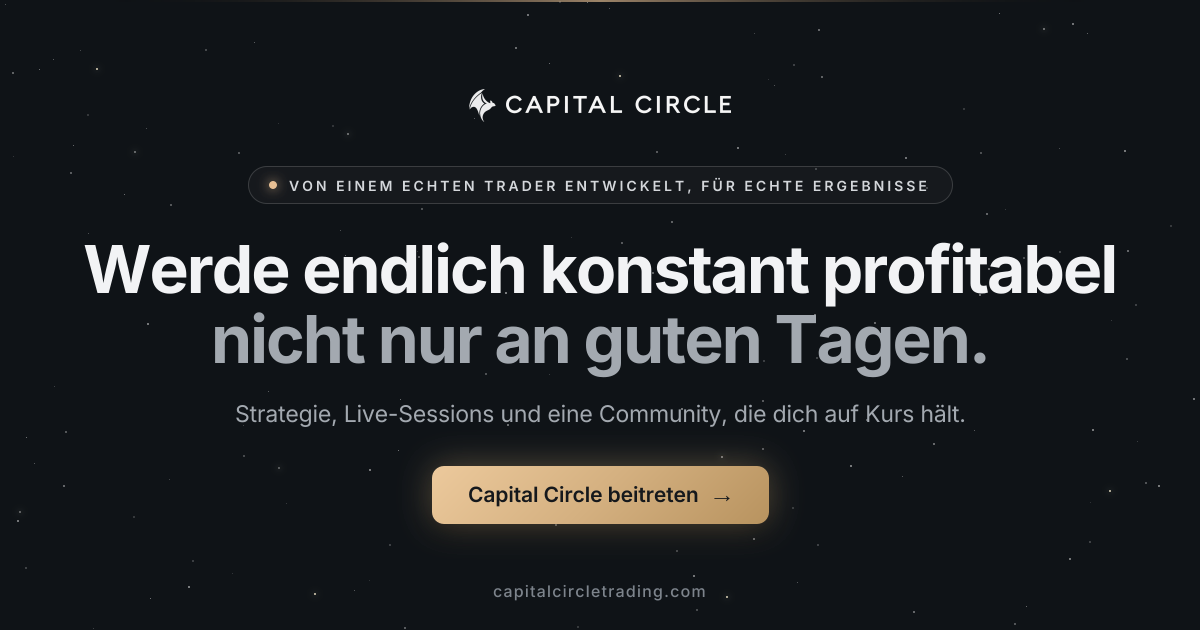
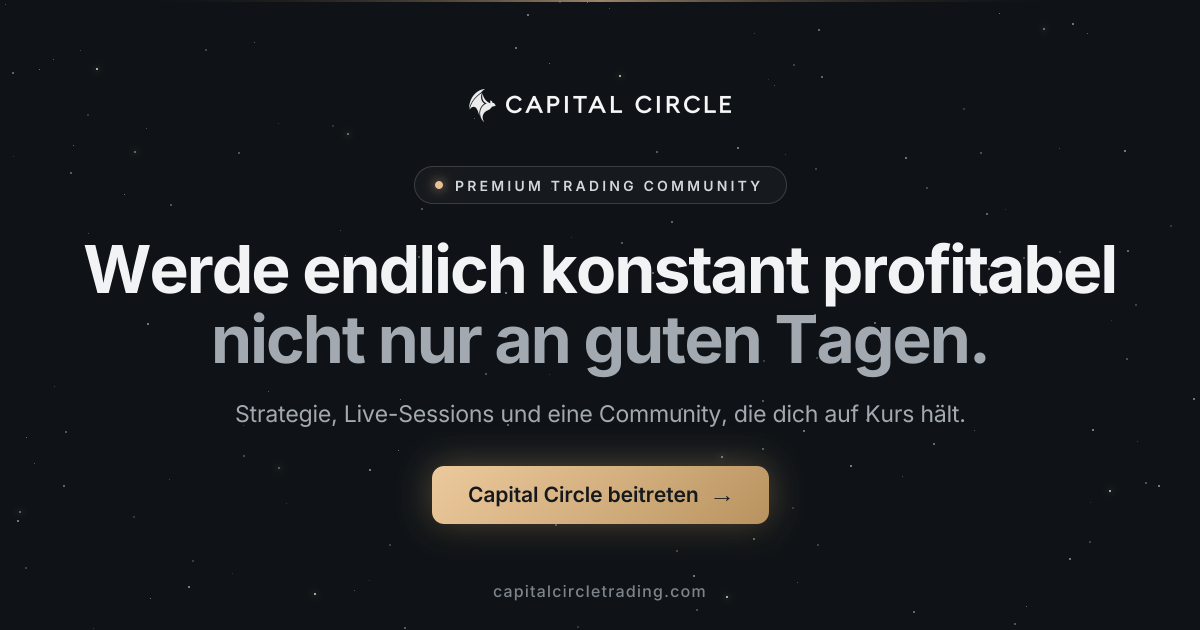
fix(landing): Satz als kleines Badge ueber dem Video statt als Dachzeile
"Von einem echten Trader entwickelt, fuer echte Ergebnisse" steht jetzt als
kleines Badge direkt ueber dem Hero-Video (hero.videoBadge): normale
Schreibweise, 10/12 px, kein Pulsieren. Die Dachzeile ueber der Headline ist
wieder "Premium Trading Community", ebenso im Vorschaubild - sie zu ersetzen
war ein Missverstaendnis.

Changed region(s): [[0.2158, 0.2714, 0.7708, 0.3016]]

diff --git a/components/landing/membership/MembershipHero.tsx b/components/landing/membership/MembershipHero.tsx
@@ -1,6 +1,6 @@
 "use client";
 
-import { Box, Heading, HStack, Stack, Text } from "@chakra-ui/react";
+import { Box, Flex, Heading, HStack, Stack, Text } from "@chakra-ui/react";
 import { hero } from "@/config/landing-membership";
 import { heroRise } from "../landing-ui";
 import { BeitrittCta } from "./BeitrittModal";
@@ -40,17 +40,12 @@ export function MembershipHero({ bewertungen }: { bewertungen: Bewertungsspiegel
             etwas läuft, statt es nur zu behaupten. Der Punkt bleibt Gold hell:
             ein zweiter Akzentton käme sonst über die Türschwelle der Seite.
           */}
-          {/* Seit 29.09.2026 ein ganzer Satz statt „Premium Trading Community":
-              Auf dem Handy passt er nicht in eine Zeile, die Pill bricht dort
-              deshalb um und rundet sich zur Kapsel statt zum Kreis. */}
           <HStack
             {...heroRise(0)}
             spacing={{ base: 2.5, md: 3 }}
-            minH={{ base: "32px", md: "36px" }}
-            py={{ base: 2, md: 0 }}
+            h={{ base: "32px", md: "36px" }}
             px={{ base: 4, md: 5 }}
-            maxW="100%"
-            borderRadius={{ base: "18px", md: "full" }}
+            borderRadius="full"
             border="1px solid var(--cc-line-strong)"
             bg="rgba(255, 255, 255, 0.02)"
           >
@@ -67,12 +62,11 @@ export function MembershipHero({ bewertungen }: { bewertungen: Bewertungsspiegel
             <Text
               as="span"
               fontSize={{ base: "11px", md: "13px" }}
-              lineHeight={{ base: "16px", md: "normal" }}
               fontWeight={600}
-              letterSpacing={{ base: "0.16em", md: "0.22em" }}
+              letterSpacing="0.22em"
               textTransform="uppercase"
               color="var(--cc-text-soft)"
-              whiteSpace={{ base: "normal", md: "nowrap" }}
+              whiteSpace="nowrap"
             >
               {hero.eyebrow}
             </Text>
@@ -117,6 +111,42 @@ export function MembershipHero({ bewertungen }: { bewertungen: Bewertungsspiegel
           Vorschau nach unten abtauchte, hätte die untere Kante verschluckt.
         */}
         <Box {...heroRise(4)} position="relative">
+          {/*
+            Kleines Badge direkt über dem Video (Nutzerwunsch 29.09.2026) —
+            bewusst leiser als die Dachzeile oben: normale Schreibweise statt
+            Versalien, kein Pulsieren, damit es das Video beschriftet und nicht
+            mit der Headline um Aufmerksamkeit konkurriert.
+          */}
+          <Flex justify="center" mb={{ base: 3, md: 4 }}>
+            <HStack
+              spacing={2}
+              h={{ base: "24px", md: "26px" }}
+              px={{ base: 2.5, md: 3 }}
+              maxW="100%"
+              borderRadius="full"
+              border="1px solid var(--cc-line)"
+              bg="rgba(255, 255, 255, 0.02)"
+            >
+              <Box
+                aria-hidden
+                w="5px"
+                h="5px"
+                flexShrink={0}
+                borderRadius="full"
+                bg="var(--cc-gold-light)"
+                boxShadow="0 0 6px rgba(232, 192, 148, 0.6)"
+              />
+              <Text
+                as="span"
+                fontSize={{ base: "10px", md: "12px" }}
+                fontWeight={500}
+                color="var(--cc-text-2)"
+                whiteSpace="nowrap"
+              >
+                {hero.videoBadge}
+              </Text>
+            </HStack>
+          </Flex>
           <PlattformVideo />
         </Box>
       </Stack>

diff --git a/config/landing-membership.ts b/config/landing-membership.ts
@@ -55,7 +55,9 @@ export const ctaAnker = "#angebot";
 
 export const hero = {
   /** Steht als Pill mit Live-Punkt über der Headline (siehe `MembershipHero`). */
-  eyebrow: "Von einem echten Trader entwickelt, für echte Ergebnisse",
+  eyebrow: "Premium Trading Community",
+  /** Kleines Badge direkt über dem Hero-Video (siehe `MembershipHero`). */
+  videoBadge: "Von einem echten Trader entwickelt, für echte Ergebnisse",
   headlineHell: "Werde endlich konstant profitabel",
   headlineGedimmt: "nicht nur an guten Tagen.",
   /**

diff --git a/AGENTS.md b/AGENTS.md
@@ -116,9 +116,10 @@ jetzt ein geschnittener 60-s-Rundgang durch die Plattform als stummer Loop
 ist entfernt — der Eintrag vom 17.09. („Hero-Vorschau hängt am Dashboard") gilt damit nicht mehr.
 Kein Player: keine Steuerelemente, keine Klicks, `aria-hidden`. Das Video trägt **nur einen Gold-/Weiß-Glow, keine
 Rahmenlinie** (Nutzerwunsch; eine Champagner-Kante mit Lichtkante oben war kurz drin und ist
-ausdrücklich wieder raus). Der frühere Verlauf, mit dem die Vorschau nach unten abtauchte, ist weg. Die Dachzeile über der Headline
-lautet seit demselben Tag „Von einem echten Trader entwickelt, für echte Ergebnisse" und bricht auf
-dem Handy in zwei Zeilen um. Vier Fassungen (AV1 und H.264,
+ausdrücklich wieder raus). Der frühere Verlauf, mit dem die Vorschau nach unten abtauchte, ist weg. Direkt über dem Video
+steht ein **kleines Badge** „Von einem echten Trader entwickelt, für echte Ergebnisse"
+(`hero.videoBadge`). Die Dachzeile über der Headline bleibt „Premium Trading Community" — sie
+ersetzen war ein Missverständnis und ist zurückgenommen, ebenso im Vorschaubild. Vier Fassungen (AV1 und H.264,
 Desktop 1920 px und Mobil 1080 px, 30 fps) plus WebP-Poster, AV1 Desktop ~4,8 MB, Mobil ~2,5 MB.
 `public/hero/` wird ein Jahr `immutable` gecacht (`next.config.ts`) — **beim Austausch neue
 Dateinamen vergeben** (aktuell `plattform-2-…`, als Nächstes `plattform-3-…`). Der Ordner steht im
